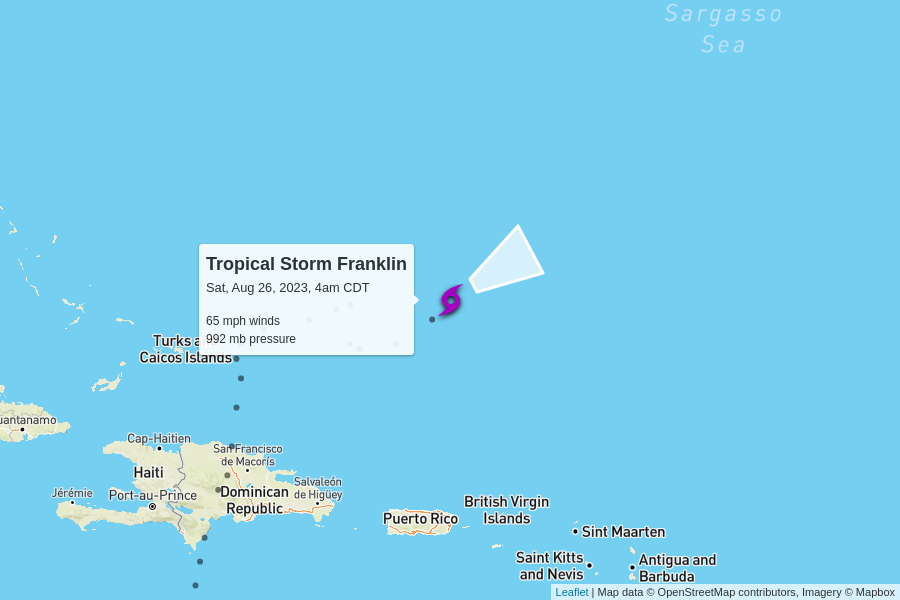
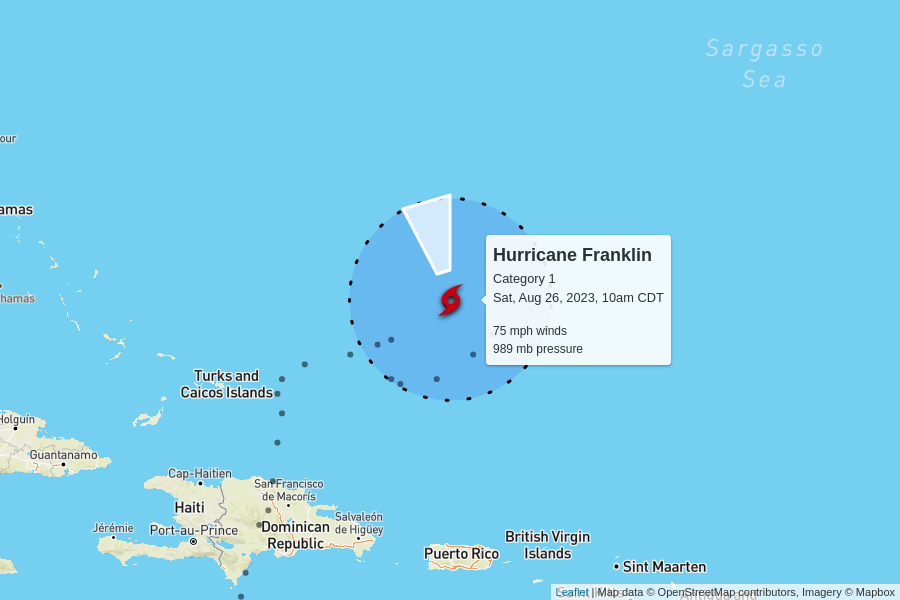
automatic update

diff --git a/docs/index.html b/docs/index.html
@@ -97,10 +97,10 @@
 
     <table>
       <tr>
-        <td colspan="6" class="storm category-0" >
+        <td colspan="6" class="storm category-1" >
           <h2>
-            Tropical Storm Franklin
-            <p class="updated">last updated <span data-time>2023-08-26T09:00:00.000Z</span></p>
+            Hurricane Franklin - Category 1
+            <p class="updated">last updated <span data-time>2023-08-26T15:00:00.000Z</span></p>
           </h2>
         </td>
       </tr>
@@ -115,12 +115,12 @@
       </tr>
       <tr>
         <td class="spacer"></td>
-        <td>65 mph</td>
-        <td>992 mb</td>
+        <td>75 mph</td>
+        <td>989 mb</td>
         <td>
-          6 mph to the east-northeast
+          7 mph to the north-northwest
           <br/>
-          <span style="display: inline-block; font-size: 1.5em; transform: rotate(60deg);">↑</span>
+          <span style="display: inline-block; font-size: 1.5em; transform: rotate(345deg);">↑</span>
         </td>
         <td><a href="https://raw.githubusercontent.com/mgwalker/atlantic-hurricanes/main/data/csv/AL082023.csv">AL082023.csv</a></td>
         <td><a href="https://www.nhc.noaa.gov/archive/2023/FRANKLIN.shtml?">NHC advisories</a></td>
